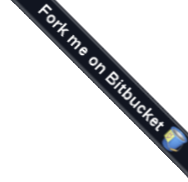
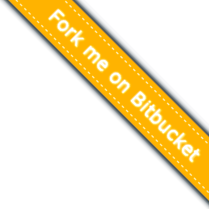
Make sidebar drop below body when screen to small instead of hiding it. Update ForkMe image. Build Tinkerer website with Modern5 theme

diff --git a/tinkerer/themes/boilerplate/layout.html b/tinkerer/themes/boilerplate/layout.html
@@ -247,6 +247,15 @@
     <div class="main">
 {%- block content -%}
       <div class="content clearfix">
+      {%- block document -%}
+        <div class="documentwrapper">
+          {%- block relbar1 -%}{{ relbar() }}{% endblock -%}
+            <article class="document">
+              {% block body -%} {% endblock -%}
+            </article>
+          {%- block relbar2 -%}{{ relbar() }}{% endblock -%}
+        </div>
+      {%- endblock -%}
       {%- if render_sidebar -%}
         <aside class="sidebar">
           {%- if sidebars != None -%}
@@ -258,15 +267,6 @@
           {%- endif -%}
         </aside>
       {%- endif -%}
-      {%- block document -%}
-        <div class="documentwrapper">
-          {%- block relbar1 -%}{{ relbar() }}{% endblock -%}
-            <article class="document">
-              {% block body -%} {% endblock -%}
-            </article>
-          {%- block relbar2 -%}{{ relbar() }}{% endblock -%}
-        </div>
-      {%- endblock -%}
       </div>
 {%- endblock -%}
     </div>

diff --git a/tinkerer/themes/boilerplate/static/style.css b/tinkerer/themes/boilerplate/static/style.css
@@ -208,8 +208,6 @@ nav li { text-align: center; width: 100%; }
 
 div.related li { list-style-type: none; }
 
-aside.sidebar { display: none; }
-
 /* ==|== non-semantic helper classes ========================================
    Please define your styles before this section.
    ========================================================================== */
@@ -254,9 +252,9 @@ aside.sidebar { display: none; }
     /* Style adjustments for viewports 768px and over go here */
     li.quicklink { display: inline; float: right; }
 
-    div.documentwrapper { margin-right: 333px; } 
+    div.documentwrapper { float: left; margin-right: 333px; } 
     
-    aside.sidebar { display: block; float: right; margin-left: -333px; width: 333px; }
+    aside.sidebar { display: block; float: left; margin-left: -333px; width: 333px; }
 }
 
 

diff --git a/blog/conf.py b/blog/conf.py
@@ -9,7 +9,7 @@ website = 'http://www.tinkerer.me/'
 
 disqus_shortname = 'tinkerer'                                   
 html_favicon = 'tinkerer.ico'           
-html_theme = "modern"
+html_theme = "modern5"
 rss_service = "http://feeds.feedburner.com/tinkerer"
 
 extensions = ['tinkerer.ext.blog', 'tinkerer.ext.disqus'] 
